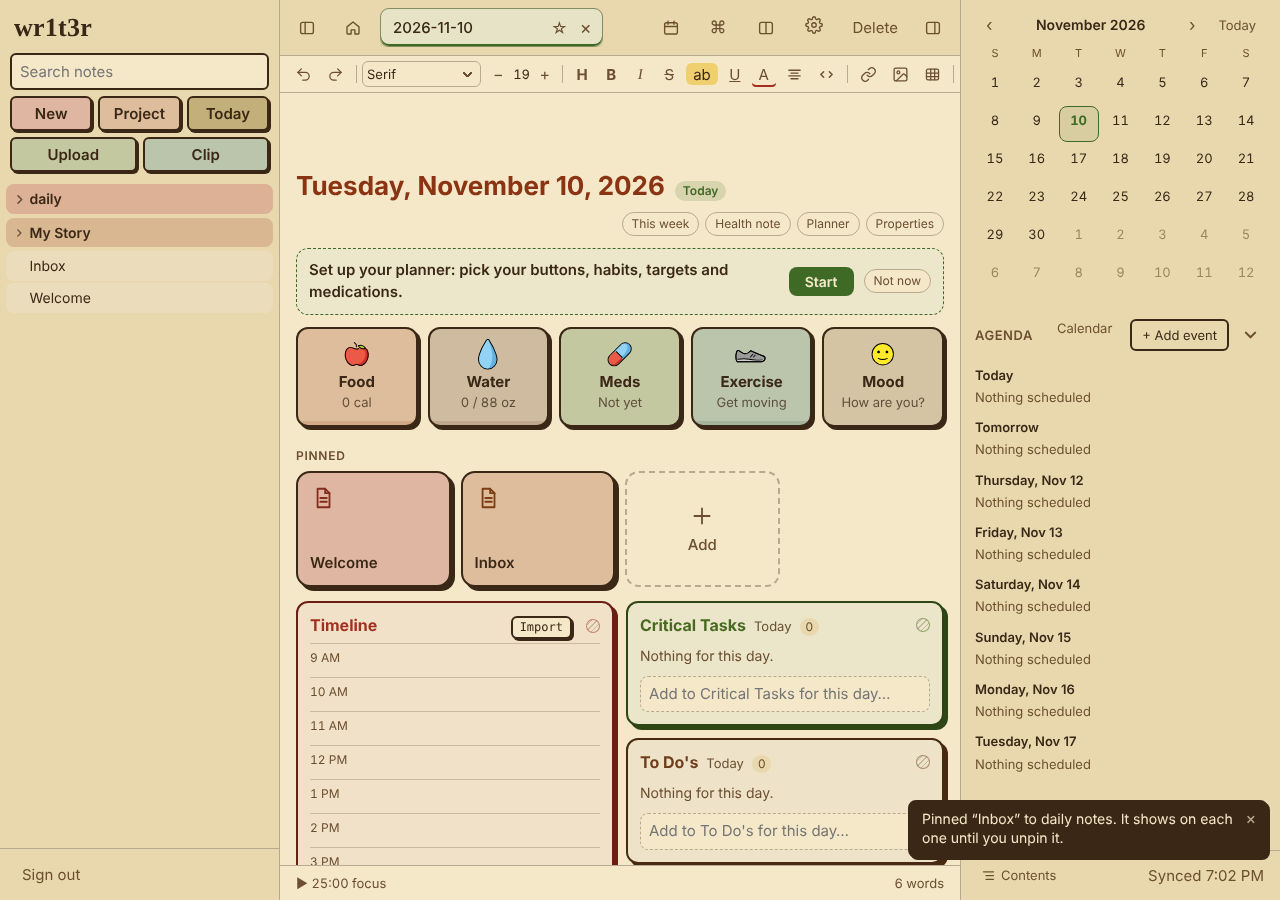
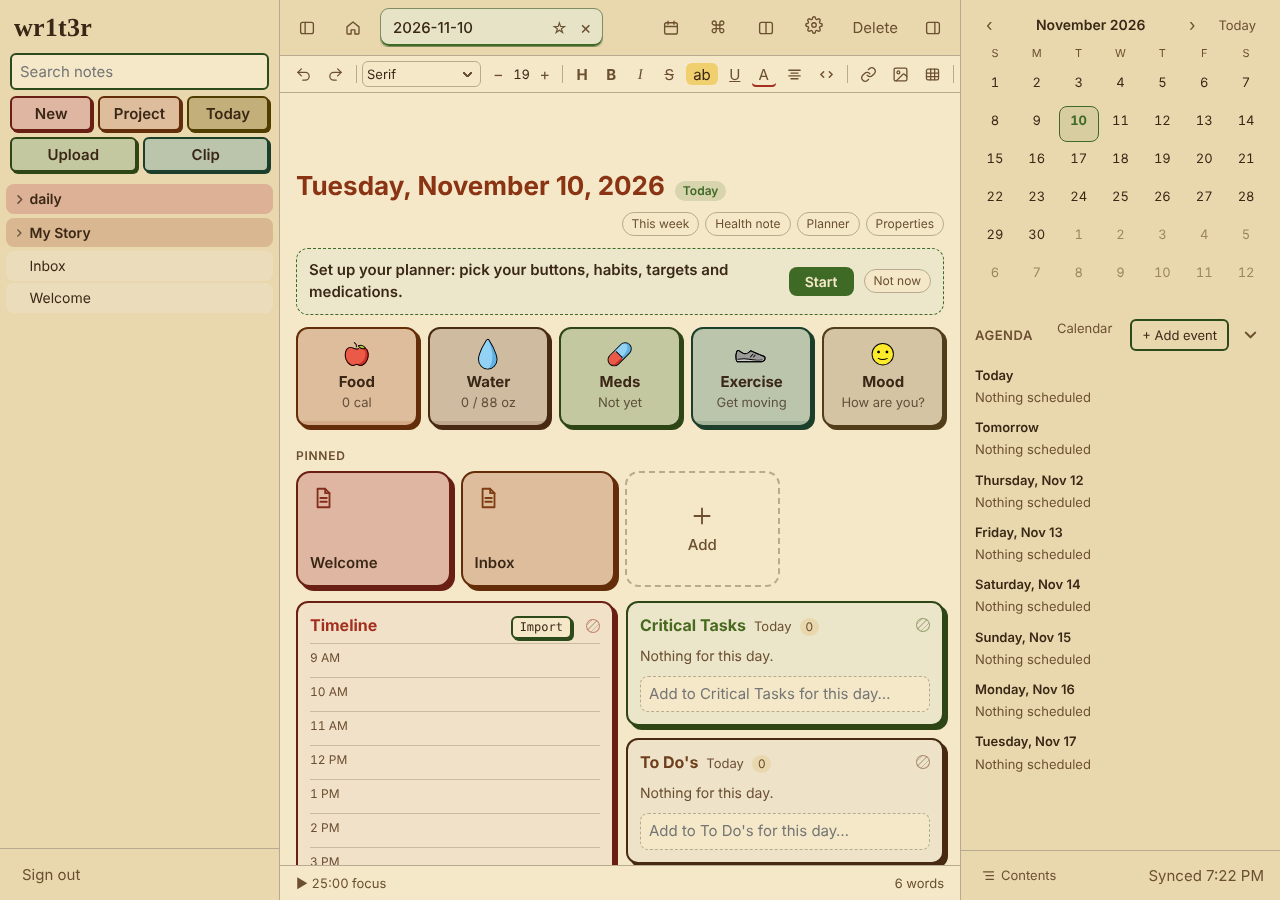
Bold outlines: no black on light themes either
Outlines and shadows are a darker shade of each thing's own color, or of
the accent for uncolored panels, menus and plain cards.

Claude-Session: https://claude.ai/code/session_012cksxqsdhhAoXLC1xj7n9M

diff --git a/src/style.css b/src/style.css
@@ -2514,18 +2514,19 @@ body.no-health .planner-buttons { display: none !important; }
    <html>, set by src/main.js and public/theme.js). Layers over any theme:
    thick outlines and hard offset shadows on buttons, cards and panels, and
    darker hairlines (--line) for contrast. light-dark() picks by the theme's
-   color-scheme. On a light theme the ink is the text color. On a dark one
-   it's never white: a colored thing (a Home tile, a sidebar button, a pill
-   button) gets a lighter fill of its own color with a darker shade of it as
-   outline and shadow, and an uncolored one (a panel, a menu) takes the
-   accent for its outline and a darker accent for its shadow.
+   color-scheme. Never black or white: a colored thing (a Home tile, a
+   sidebar or planner button, a pill button, a colored card) is outlined and
+   shadowed in a darker shade of its own color, and an uncolored one (a
+   panel, a menu, a plain card) in a darker shade of the accent (on a dark
+   theme, the accent itself outlines it). On a dark theme a colored button
+   also gets a lighter fill of its color, with dark text.
    Plain button and input rules sit in :where() so a component's own border
    (or none) still wins; shadows go only on the bigger surfaces named here,
    since a borderless toolbar button with a hard shadow would look broken. */
 :root[data-outline=bold] {
 	--ink-w: 2px;
-	--ink: light-dark(var(--fg), var(--accent));
-	--ink-drop: light-dark(var(--fg), color-mix(in srgb, var(--accent) 45%, #000));
+	--ink: light-dark(color-mix(in srgb, var(--accent) 70%, #000), var(--accent));
+	--ink-drop: light-dark(color-mix(in srgb, var(--accent) 70%, #000), color-mix(in srgb, var(--accent) 45%, #000));
 	--drop-s: 2px 2px 0 var(--ink-drop);
 	--drop: 4px 4px 0 var(--ink-drop);
 	--drop-l: 6px 6px 0 var(--ink-drop);
@@ -2533,7 +2534,7 @@ body.no-health .planner-buttons { display: none !important; }
 }
 /* A colored thing: set --hue on it. */
 :root[data-outline=bold] :is(.side-top button, .tile:not(.tile-add), .planner-btn, .welcome-actions button:not(.quiet), #tokenLogin button, #ncConnect, .cal-btn.primary) {
-	--hue-ink: light-dark(var(--fg), color-mix(in srgb, var(--hue) 50%, #000));
+	--hue-ink: light-dark(color-mix(in srgb, var(--hue) 65%, #000), color-mix(in srgb, var(--hue) 50%, #000));
 	--hue-fill: light-dark(color-mix(in srgb, var(--hue) 30%, var(--card)), color-mix(in srgb, var(--hue) 80%, #fff));
 	--hue-fill-on: light-dark(color-mix(in srgb, var(--hue) 44%, var(--card)), color-mix(in srgb, var(--hue) 92%, #fff));
 	--hue-text: light-dark(var(--fg), color-mix(in srgb, var(--hue) 20%, #000));

diff --git a/docs/editing.md b/docs/editing.md
@@ -83,7 +83,7 @@ The **Clip to wr1t3r** bookmarklet in **Settings > Sync and files** works on eve
 
 On the Worker build the **Clip** button (and Commands > Clip a web page) takes an address instead, and the Worker fetches the page (Reader's `/api/fetch` rules: public http(s) addresses only, 5 MB, 15 s, token required); pages behind a login or built entirely by JavaScript may come out thin that way. Bookmarklets saved before `#clip-page=` send `#clip=<address>`, which still goes through the Worker.
 
-**Settings > Appearance** (the gear button) sets the theme, kept per device; on a phone, or with the toolbar off, it has the font and text size too. Themes are Default (Reader's colors), Gruvbox, Dracula, Rosé Pine, Tokyo Night, Catppuccin, Kanagawa, Everforest, Nord, Monokai, SynthWave '84, and wr1t3r's own Bubblegum (candy pink) and Shire (earth tones on parchment); each but Monokai and SynthWave '84 (dark only) has Light and Dark variants (Dracula's light one is Alucard, Rosé Pine's is Dawn, Tokyo Night's Night and Day, Catppuccin's Mocha and Latte, Kanagawa's Wave and Lotus, Nord's light one uses its Snow Storm colors, Bubblegum's dark one is Bubblegum Night, Shire's is Shire Night), and Auto follows the system. Top-level folders in the sidebar take the theme's rainbow colors in turn, and their subfolders keep the same color. The same seven colors mark everything else that's color-coded, so it all changes with the theme: each tag has one (its pill in the properties, `#tag` in the text and its row in the sidebar's Tags), bookmarks take their folder's color, and list bullets and numbers change color with each level of nesting. **Headings** set to By level gives each heading level, `#` to `######`, its own of those colors, in the app and on the exported website. **Outlines** set to Bold draws thick outlines and hard offset shadows around buttons, cards, Home tiles, the daily planner's buttons and cards, menus and dialogs, over whichever theme is on, and gives the sidebar's buttons the rainbow colors (in the app only, not the exported website). On a light theme the outlines are the text color. On a dark one, colored things (tiles, sidebar buttons) get a light fill of their color outlined in a darker shade of it, and the rest are outlined in the accent color.
+**Settings > Appearance** (the gear button) sets the theme, kept per device; on a phone, or with the toolbar off, it has the font and text size too. Themes are Default (Reader's colors), Gruvbox, Dracula, Rosé Pine, Tokyo Night, Catppuccin, Kanagawa, Everforest, Nord, Monokai, SynthWave '84, and wr1t3r's own Bubblegum (candy pink) and Shire (earth tones on parchment); each but Monokai and SynthWave '84 (dark only) has Light and Dark variants (Dracula's light one is Alucard, Rosé Pine's is Dawn, Tokyo Night's Night and Day, Catppuccin's Mocha and Latte, Kanagawa's Wave and Lotus, Nord's light one uses its Snow Storm colors, Bubblegum's dark one is Bubblegum Night, Shire's is Shire Night), and Auto follows the system. Top-level folders in the sidebar take the theme's rainbow colors in turn, and their subfolders keep the same color. The same seven colors mark everything else that's color-coded, so it all changes with the theme: each tag has one (its pill in the properties, `#tag` in the text and its row in the sidebar's Tags), bookmarks take their folder's color, and list bullets and numbers change color with each level of nesting. **Headings** set to By level gives each heading level, `#` to `######`, its own of those colors, in the app and on the exported website. **Outlines** set to Bold draws thick outlines and hard offset shadows around buttons, cards, Home tiles, the daily planner's buttons and cards, menus and dialogs, over whichever theme is on, and gives the sidebar's buttons the rainbow colors (in the app only, not the exported website). No black or white: colored things (tiles, sidebar and planner buttons, colored cards) are outlined and shadowed in a darker shade of their own color, and the rest in a darker shade of the accent. On a dark theme colored buttons also get a lighter fill of their color.
 
 The bar under the editor shows the note's word count, leaving out frontmatter. Tap it to switch to characters. When text is selected, it counts the selection.
 
